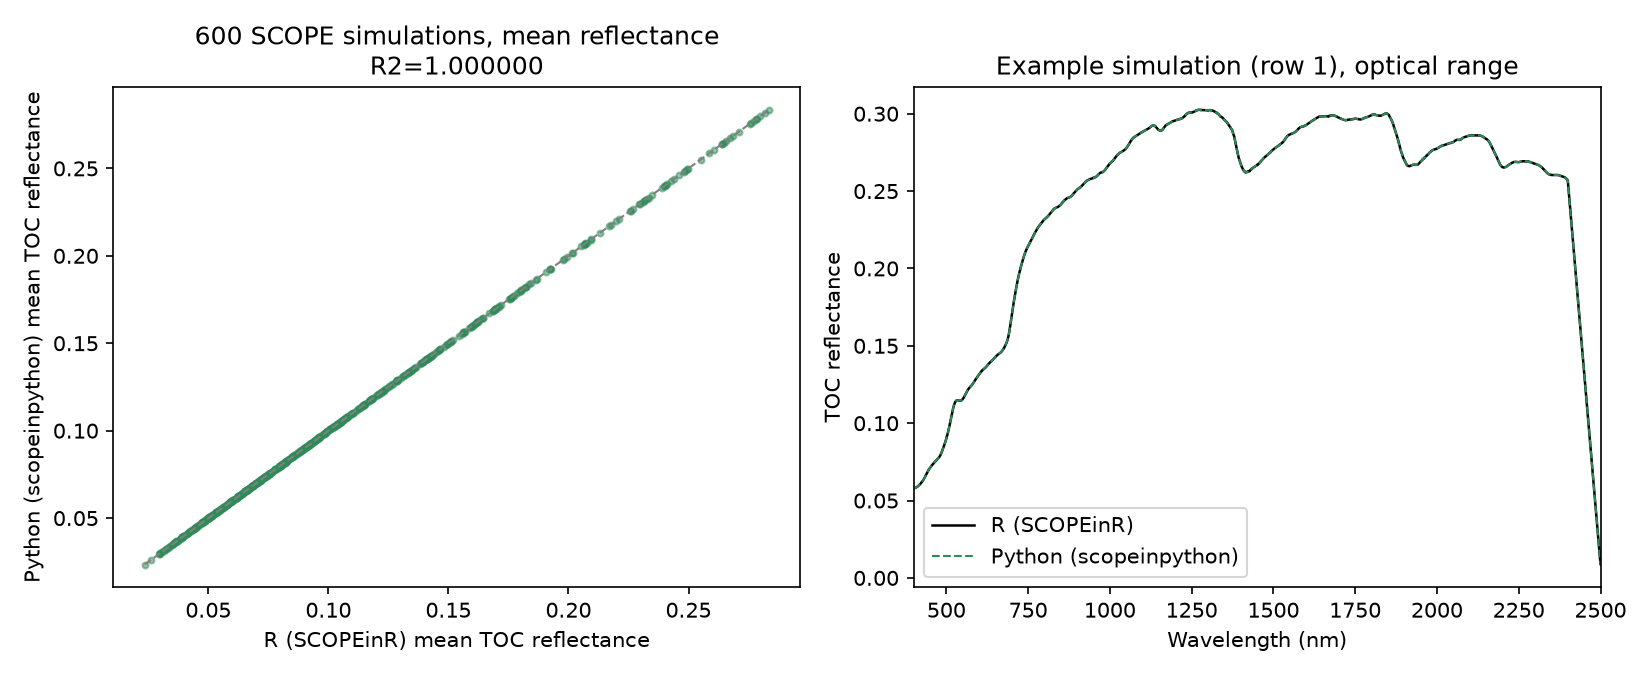
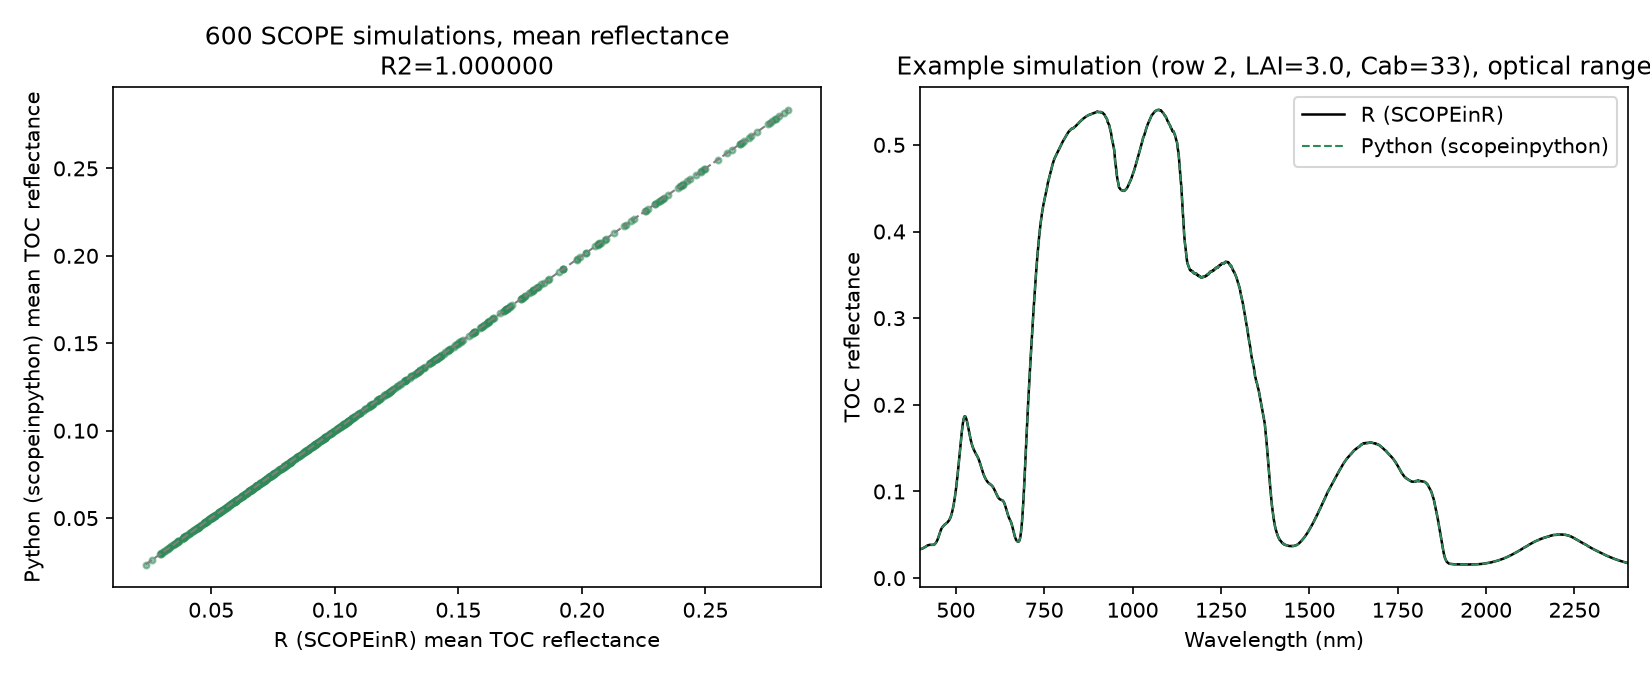
Fix misleading example spectrum in the SCOPE R-vs-Python comparison figure
SCOPE's full spectral grid (data.rad\$refl, 2162 points) spans both the
400-2400nm optical domain and a 2500-50000nm thermal domain -- the
example-spectrum panel's x-axis was clipped to 400-2500nm but its data
wasn't, so a near-zero thermal-domain point landed right at the 2500nm
edge and read as the spectrum dropping to zero. The example row itself
was also just "first valid row", which happened to have LAI=0.26 (a
near-bare canopy, soil-dominated reflectance with no chlorophyll/red-edge
features).

Fixed both: the plotted data is now sliced to the true optical domain
(wl<=2400), and the example row is chosen for having a real closed
canopy (LAI>=2, Cab>=30) so the panel actually shows the expected
vegetation spectral shape. R^2/RMSE unchanged (R2=1.0, RMSE=2.5e-16,
600/600 simulations) -- this was a plotting/example-choice issue, not a
simulation or model discrepancy.

diff --git a/Scripts/Comparison/compare_R_Python_scope_600sims.py b/Scripts/Comparison/compare_R_Python_scope_600sims.py
@@ -86,13 +86,35 @@ axes[0].set_xlabel("R (SCOPEinR) mean TOC reflectance")
 axes[0].set_ylabel("Python (scopeinpython) mean TOC reflectance")
 axes[0].set_title(f"{both_ok.sum()} SCOPE simulations, mean reflectance\nR2={r2:.6f}")
 
-example_idx = np.where(both_ok)[0][0]
-axes[1].plot(wl_ok, R_ok[0], label="R (SCOPEinR)", color="black", linewidth=1.2)
-axes[1].plot(wl_ok, Py_ok[0], label="Python (scopeinpython)", color="#2E8B57", linewidth=1, linestyle="--")
+# wl_grid spans SCOPE's full radiative-transfer domain: 400-2400nm optical
+# (1nm step) *plus* 2500-50000nm thermal (coarser step) -- data.rad$refl's
+# thermal-domain entries aren't shortwave reflectance in the same physical
+# sense, so restrict the illustrative example plot to the true optical
+# range only (matching this page's own "TOC reflectance" framing/axis
+# label), or a stray near-zero thermal point at the 2400/2500nm boundary
+# reads as a fake cliff to zero. Also pick a row with a real, closed
+# vegetation canopy (not just "first valid row") -- SCOPE's random LUT
+# includes very sparse canopies (LAI down to ~0) whose TOC reflectance is
+# soil-dominated and doesn't show the chlorophyll/red-edge features a
+# reader expects from "an example SCOPE spectrum".
+optical_mask = wl_ok <= 2400
+lai_col = "LAI"
+veg_candidates = np.where(both_ok)[0]
+veg_row = None
+for idx in veg_candidates:
+    if lut.iloc[idx][lai_col] >= 2.0 and lut.iloc[idx]["Cab"] >= 30:
+        veg_row = idx
+        break
+if veg_row is None:
+    veg_row = veg_candidates[0]
+example_idx = int(np.where(np.where(both_ok)[0] == veg_row)[0][0])
+
+axes[1].plot(wl_ok[optical_mask], R_ok[example_idx][optical_mask], label="R (SCOPEinR)", color="black", linewidth=1.2)
+axes[1].plot(wl_ok[optical_mask], Py_ok[example_idx][optical_mask], label="Python (scopeinpython)", color="#2E8B57", linewidth=1, linestyle="--")
 axes[1].set_xlabel("Wavelength (nm)")
 axes[1].set_ylabel("TOC reflectance")
-axes[1].set_xlim(400, 2500)
-axes[1].set_title(f"Example simulation (row {example_idx + 1}), optical range")
+axes[1].set_xlim(400, 2400)
+axes[1].set_title(f"Example simulation (row {veg_row + 1}, LAI={lut.iloc[veg_row][lai_col]:.1f}, Cab={lut.iloc[veg_row]['Cab']:.0f}), optical range")
 axes[1].legend()
 
 plt.tight_layout()
